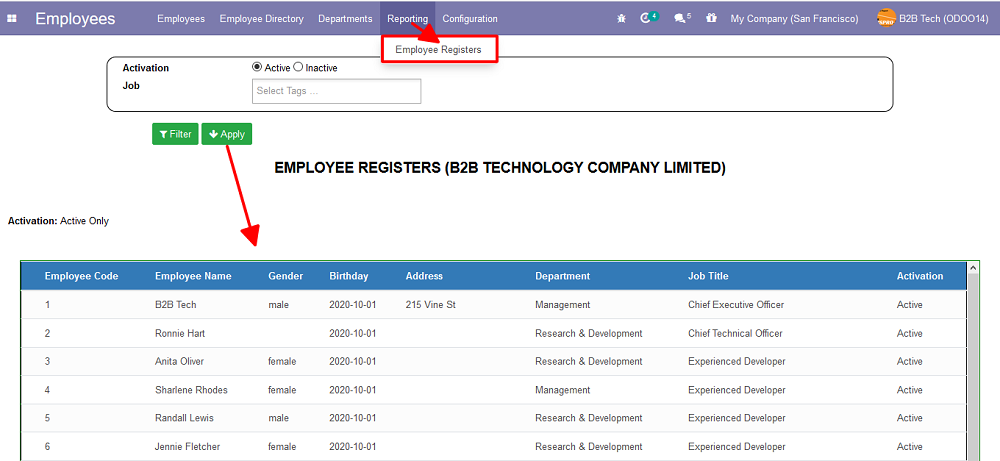
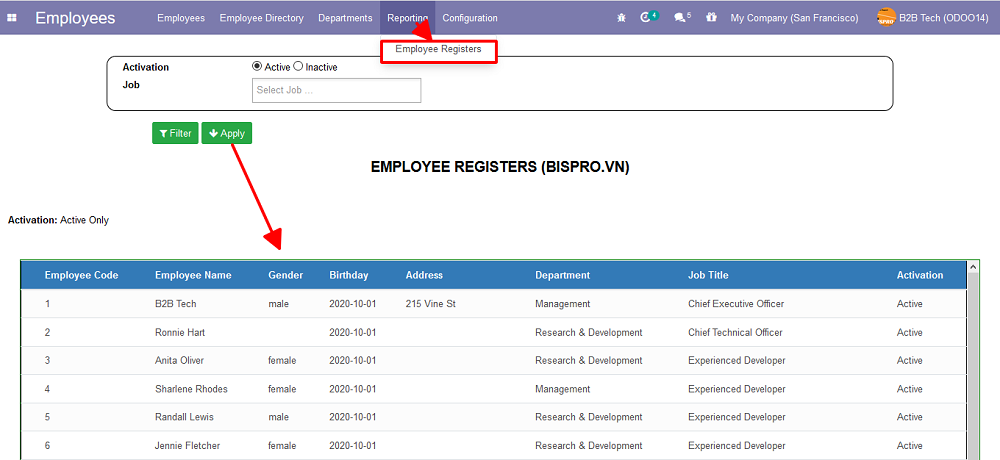
Add files via upload

diff --git a/b2b_hr_employee_report/static/description/index.html b/b2b_hr_employee_report/static/description/index.html
@@ -1,6 +1,6 @@
 <section class="oe_container">
     <div class="oe_row oe_spaced" style="max-width: 95%;">
-        <h2 class="oe_slogan" style="color:#875A7B;">B2B TECHNOLOGY COMPANY LIMITED</h2>
+        <h2 class="oe_slogan" style="color:#875A7B;">BISPRO.VN</h2>
         <h1>!This moduld show list of employee
         <a href="http://www.odoo.com/apps/modules/14.0/b2b_hr_employee_report/" target="_blank">
         <i class="fa fa-download text-warning"></i>Click to download.

diff --git a/b2b_hr_employee_report/__manifest__.py b/b2b_hr_employee_report/__manifest__.py
@@ -1,26 +1,44 @@
 # -*- coding: utf-8 -*-
-# Author: Duongnv
-# License AGPL-3.0 or later (https://b2btech.com.vn).
+#############################################################################
+#
+#    bispro.vn.
+#
+#    Copyright (C) 2020 bispro.vn(<http://bispro.vn)
+#    Author: bispro.vn (<http://bispro.vn)
+#
+#    You can modify it under the terms of the GNU LESSER
+#    GENERAL PUBLIC LICENSE (LGPL v3), Version 3.
+#
+#    This program is distributed in the hope that it will be useful,
+#    but WITHOUT ANY WARRANTY; without even the implied warranty of
+#    MERCHANTABILITY or FITNESS FOR A PARTICULAR PURPOSE.  See the
+#    GNU LESSER GENERAL PUBLIC LICENSE (LGPL v3) for more details.
+#
+#    You should have received a copy of the GNU LESSER GENERAL PUBLIC LICENSE
+#    (LGPL v3) along with this program.
+#    If not, see <http://www.gnu.org/licenses/>.
+#
+#############################################################################
 
 {
-    'name': 'B2B HR Employee Report',
+    'name': 'BISPRO HR Employee Report',
     'version': '14.0.0.0.0',
-    'category': 'B2B Base',
-    'summary': 'B2B Base Report Setting',
+    'category': 'Human Resources',
+    'summary': 'show web report',
     'description': """
-B2B Base customize and modify:
+BISPRO Base customize and modify:
 =========================
-This module is b2b base module used to all b2b project technology
+This module is Bispro base module used to all Bispro project technology
 
 Key Features
 ------------
 * Base report setting and functions for query and show web report
-* It's also support to export data to Excel file.
 """,
-    'author': 'B2B Technology, DuongNV,',
-    "website": "https://b2btech.com.vn",
+    'author': 'BISPRO.VN,',
+    "website": "http://bispro.vn",
     'depends': [
     ],
+    'images': ["static/description/icon.png"],
     'data': [
         'views/assets.xml',
         'views/base_report_views.xml',

diff --git a/b2b_hr_employee_report/models/employee_registers.py b/b2b_hr_employee_report/models/employee_registers.py
@@ -1,7 +1,5 @@
 # -*- coding: utf-8 -*-
-# Author: Lã Tuấn Kiệt
-# Copyright © 2017 B2B Technology
-# License AGPL-3.0 or later (https://b2btech.com.vn).
+# Author: BISPRO
 
 from odoo import api, models, _
 from odoo.exceptions import UserError

diff --git a/b2b_hr_employee_report/__init__.py b/b2b_hr_employee_report/__init__.py
@@ -1,10 +1,7 @@
 # -*- coding: utf-8 -*-
-# Author: Lã Tuấn Kiệt
-# Copyright © 2017 B2B Technology
-# License AGPL-3.0 or later (https://b2btech.com.vn).
+# Author: BISPRO
 
 from . import models
 
-# from . import wizard
 
 

diff --git a/b2b_hr_employee_report/models/__init__.py b/b2b_hr_employee_report/models/__init__.py
@@ -1,7 +1,5 @@
 # -*- encoding: utf-8 -*-
-# Author: Lã Tuấn Kiệt
-# Copyright © 2017 B2B Technology
-# License AGPL-3.0 or later (https://b2btech.com.vn).
+# Author: BISPRO
 
 from . import employee_registers
 
